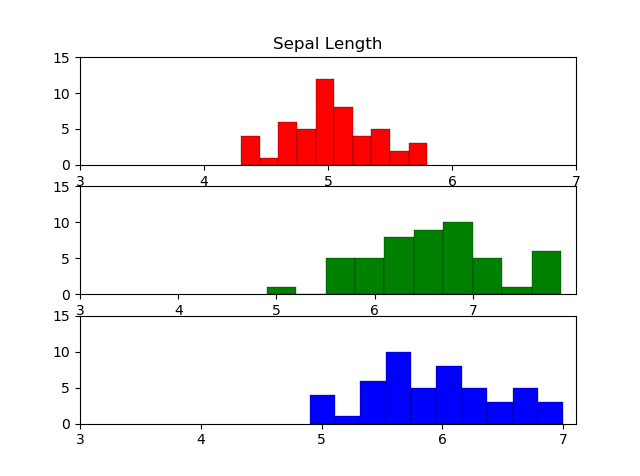
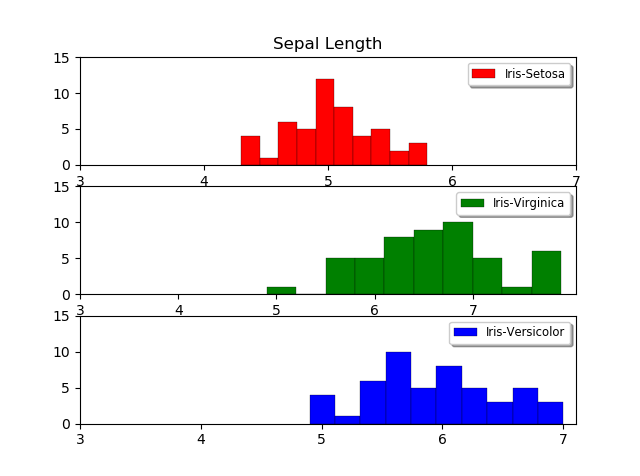
add legend, update imgs

Changed region(s): [[0.7188, 0.1176, 0.9062, 0.2059], [0.6875, 0.6765, 0.9062, 0.7353], [0.7188, 0.4118, 0.9062, 0.4706]]

diff --git a/hist2.py b/hist2.py
@@ -27,14 +27,17 @@ pl.title('Sepal Length')
 pl.hist(set1, color='r',edgecolor='k', linewidth=0.2, label='Iris-Setosa')
 pl.xticks([3, 4, 5, 6, 7])
 pl.yticks([0, 5, 10, 15])
+pl.legend(loc=1, fontsize='small', shadow=True)
 pl.subplot(312)
 pl.hist(virg1, color='g',edgecolor='k', linewidth=0.2, label='Iris-Virginica')
 pl.xticks([3, 4, 5, 6, 7])
 pl.yticks([0, 5, 10, 15])
+pl.legend(loc=1, fontsize='small', shadow=True)
 pl.subplot(313)
 pl.hist(vers1, color='b',edgecolor='k', linewidth=0.2, label='Iris-Versicolor')
 pl.xticks([3, 4, 5, 6, 7])
 pl.yticks([0, 5, 10, 15])
+pl.legend(loc=1, fontsize='small', shadow=True)
 pl.show()
 
 pl.subplot(311)
@@ -42,14 +45,17 @@ pl.title('Sepal Width')
 pl.hist(set2, color='r',edgecolor='k', linewidth=0.2, label='Iris-Setosa')
 pl.xticks([1, 2, 3, 4, 5])
 pl.yticks([0, 5, 10, 15])
+pl.legend(loc=1, fontsize='small', shadow=True)
 pl.subplot(312)
 pl.hist(virg2, color='g',edgecolor='k', linewidth=0.2, label='Iris-Virginica')
 pl.xticks([ 1, 2, 3, 4, 5])
 pl.yticks([0, 5, 10, 15])
+pl.legend(loc=1, fontsize='small', shadow=True)
 pl.subplot(313)
 pl.hist(vers2, color='b',edgecolor='k', linewidth=0.2, label='Iris-Versicolor')
 pl.xticks([ 1, 2, 3, 4, 5])
 pl.yticks([0, 5, 10, 15])
+pl.legend(loc=1, fontsize='small', shadow=True)
 pl.show()
 
 pl.subplot(311)
@@ -57,14 +63,17 @@ pl.title('Petal Length')
 pl.hist(set3, color='r',edgecolor='k', linewidth=0.2, label='Iris-Setosa')
 pl.xticks([0, 1, 2, 3, 4, 5, 6, 7])
 pl.yticks([0, 5, 10, 15])
+pl.legend(loc=1, fontsize='small', shadow=True)
 pl.subplot(312)
 pl.hist(virg3, color='g',edgecolor='k', linewidth=0.2, label='Iris-Virginica')
 pl.xticks([0, 1, 2, 3, 4, 5, 6, 7])
 pl.yticks([0, 5, 10, 15])
+pl.legend(loc=1, fontsize='small', shadow=True)
 pl.subplot(313)
 pl.hist(vers3, color='b',edgecolor='k', linewidth=0.2, label='Iris-Versicolor')
 pl.xticks([0, 1, 2, 3, 4, 5, 6, 7])
 pl.yticks([0, 5, 10, 15])
+pl.legend(loc=1, fontsize='small', shadow=True)
 pl.show()
 
 pl.subplot(311)
@@ -72,12 +81,15 @@ pl.title('Petal Width')
 pl.hist(set4, color='r',edgecolor='k', linewidth=0.2, label='Iris-Setosa')
 pl.xticks([0, 1, 2, 3])
 pl.yticks([0, 10, 20, 30])
+pl.legend(loc=1, fontsize='small', shadow=True)
 pl.subplot(312)
 pl.hist(virg4, color='g',edgecolor='k', linewidth=0.2, label='Iris-Virginica')
 pl.xticks([0, 1, 2, 3])
 pl.yticks([0, 10, 20, 30])
+pl.legend(loc=1, fontsize='small', shadow=True)
 pl.subplot(313)
 pl.hist(vers4, color='b',edgecolor='k', linewidth=0.2, label='Iris-Versicolor')
 pl.xticks([0, 1, 2, 3])
 pl.yticks([0, 10, 20, 30])
+pl.legend(loc=1, fontsize='small', shadow=True)
 pl.show()
